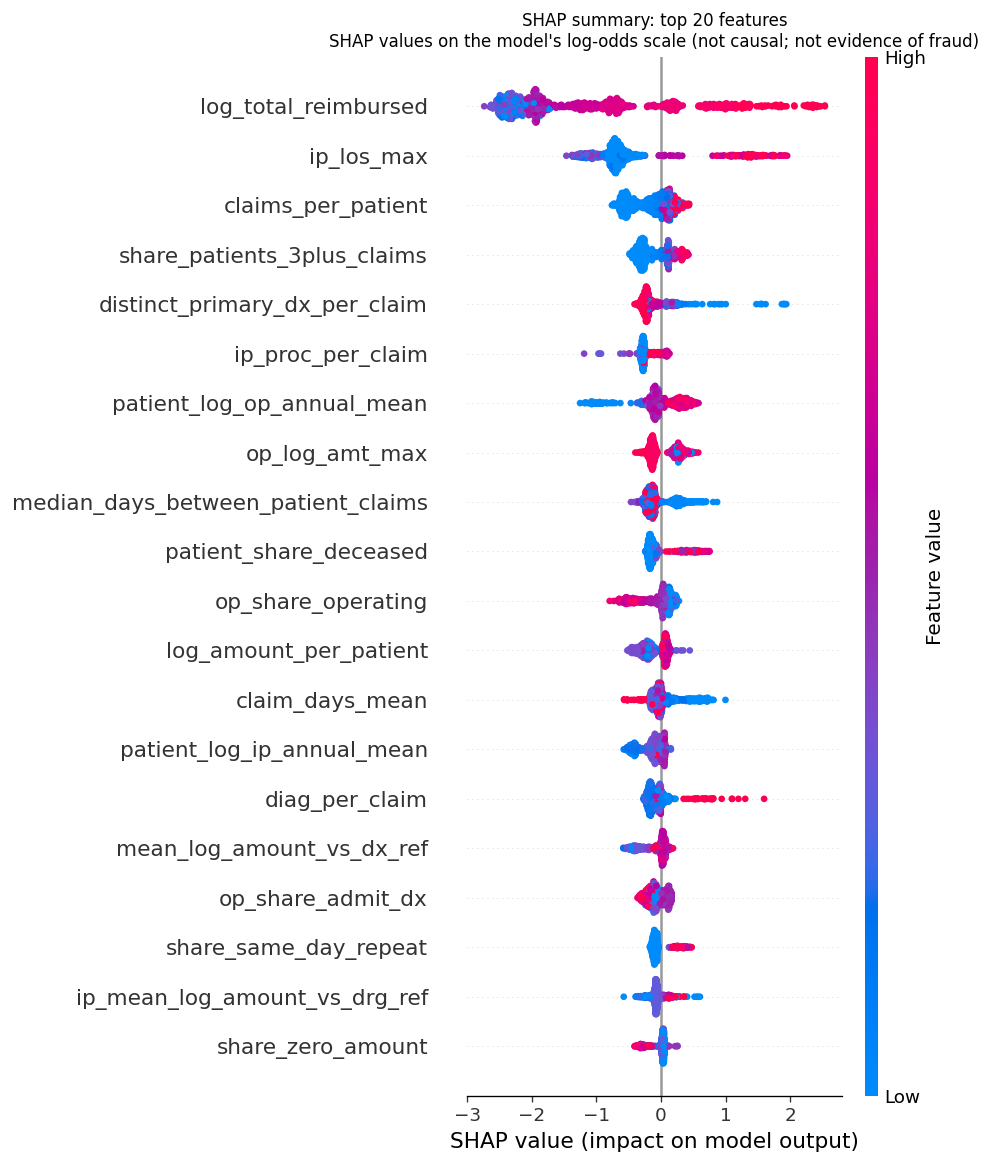
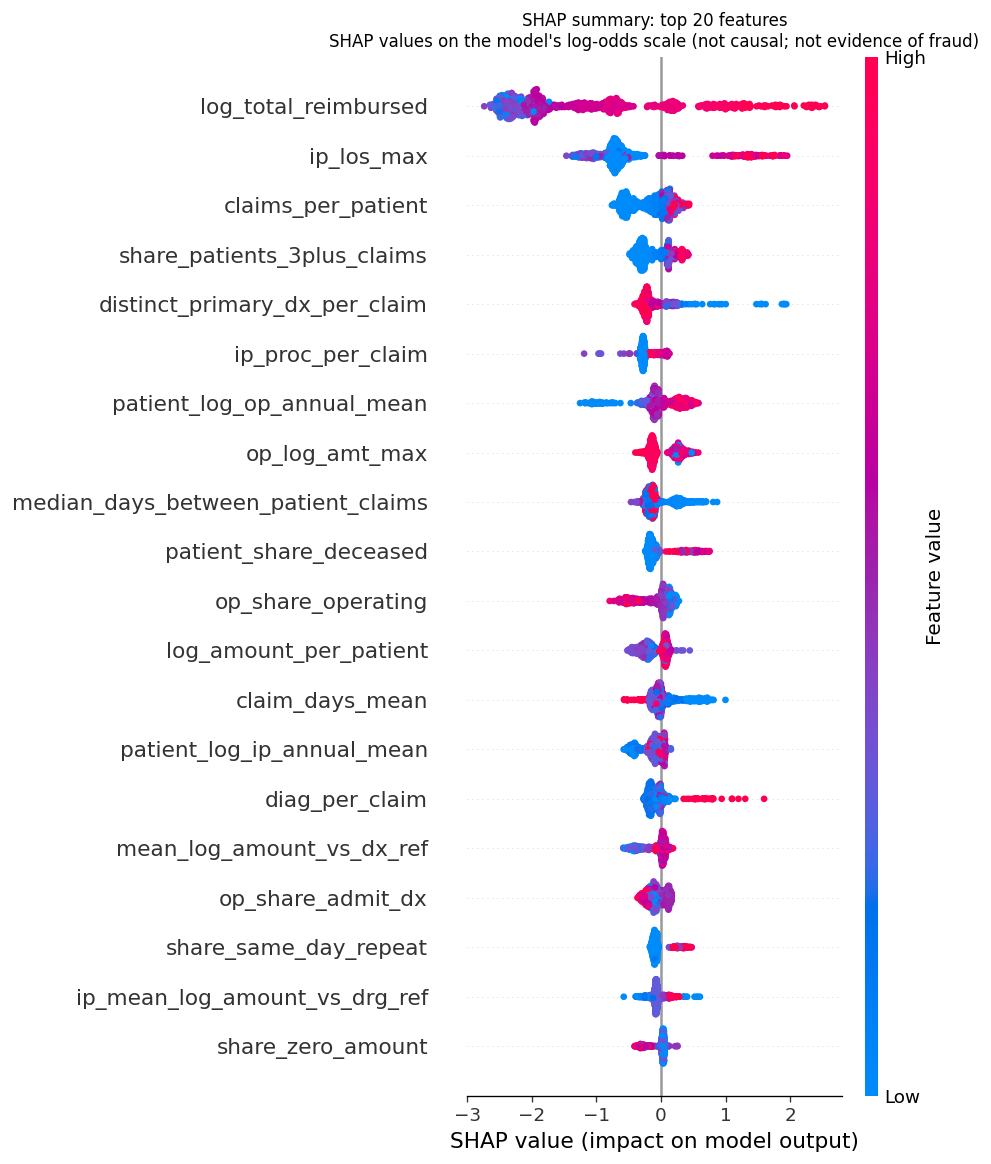
Describe model outputs consistently as uncalibrated risk scores
- predict.score_providers() output column renamed risk_probability -> risk_score
  (callers in evaluate.py, explain_shap.py and tests updated)
- Phase 2 report states that outputs are uncalibrated, class-weighted risk
  scores, not probabilities of fraud; re-rendered from SAVED results via
  `python -m training.report` (test set not re-evaluated; numbers unchanged)
- SHAP consistency check renamed max_abs_score_error; README diagram wording
- All 21 tests pass

diff --git a/ml_service/training/report.py b/ml_service/training/report.py
@@ -29,6 +29,9 @@ def render(meta: dict, cv: dict, ab: dict, out: dict) -> str:
       "See `reports/dataset_exploration_kaggle.md`.")
     w("> - **Labels:** `PotentialFraud` is a **provider-level** label of **undocumented provenance**. These results measure how well "
       "models reproduce *these labels*. They are **not** verified fraud detection, and **not** claim-level fraud accuracy.")
+    w("> - **Model outputs are uncalibrated risk scores**, not probabilities of fraud. The classifiers were trained with class "
+      "weighting, so a score of 0.9 does not mean a 90% chance of anything. Scores rank providers. Thresholds were chosen "
+      "on development out-of-fold predictions (section 3a).")
     w("> - **Task:** the supervised models predict **provider-level risk at the end of the observation period**. They are not "
       "real-time claim-level fraud detectors.")
     w("> - **Isolation Forest** flags statistically **unusual claims**. An anomaly is not a fraud finding.\n")
@@ -238,3 +241,15 @@ def render(meta: dict, cv: dict, ab: dict, out: dict) -> str:
     w("- These models use dataset-specific fields (ICD-9 codes, physicians, deductibles) that the application database does not have, "
       "so they cannot directly score the application's claims. Integration needs a separate design.\n")
     return "\n".join(L)
+
+
+if __name__ == "__main__":
+    # Re-render reports/model_comparison.md from SAVED results only (does not re-evaluate the test set):
+    #   .venv/Scripts/python.exe -m training.report
+    from fraud_ml import artifacts
+    from fraud_ml.config import REPORTS_DIR
+    rid = artifacts.latest_run_id()
+    md = render(artifacts.load_json(rid, "metadata"), artifacts.load_json(rid, "cv_results"),
+                artifacts.load_json(rid, "ablation_results"), artifacts.load_json(rid, "test_results"))
+    (REPORTS_DIR / "model_comparison.md").write_text(md, encoding="utf-8")
+    print(f"Re-rendered reports/model_comparison.md from saved results of {rid}")

diff --git a/ml_service/fraud_ml/predict.py b/ml_service/fraud_ml/predict.py
@@ -1,8 +1,9 @@
 """
 Inference only: loads saved artifacts, never trains.
 
-  score_providers(): provider-level risk of matching the dataset's PotentialFraud label, at the
-                     end of the observation period. Not a verified fraud finding and not real-time.
+  score_providers(): provider-level `risk_score` for matching the dataset's PotentialFraud label, at the
+                     end of the observation period. An UNCALIBRATED ranking score (the models use class
+                     weighting), not a probability of fraud. Not a verified fraud finding and not real-time.
   score_claims():    claim-level anomaly scores (unusualness, not fraud).
 """
 from __future__ import annotations
@@ -33,7 +34,7 @@ class Predictor:
         b = self.provider_model(model)
         X = provider_matrix(static, claims, self.reference, providers)[b["feature_names"]]
         p = b["model"].predict_proba(X)[:, 1]
-        return pd.DataFrame({"Provider": list(providers), "risk_probability": p, "flagged": (p >= b["threshold"]).astype(int),
+        return pd.DataFrame({"Provider": list(providers), "risk_score": p, "flagged": (p >= b["threshold"]).astype(int),
                              "threshold": b["threshold"], "model": model or self.selected, "run_id": self.run_id})
 
     def anomaly_bundle(self, variant: str = "isolation_forest") -> dict:

diff --git a/ml_service/training/explain_shap.py b/ml_service/training/explain_shap.py
@@ -56,11 +56,11 @@ def main() -> None:
     prob = ex.model.predict_proba(ex.X)[:, 1]
     recon = exp_all.base_values + exp_all.values.sum(axis=1)
     native = ex.model.get_booster().predict(xgb.DMatrix(ex.X), pred_contribs=True)
-    saved_scores = ex.predictor.score_providers(prep.static, prep.claims, all_ids)["risk_probability"].to_numpy()
+    saved_scores = ex.predictor.score_providers(prep.static, prep.claims, all_ids)["risk_score"].to_numpy()
     checks = {
         "n_providers": len(all_ids),
         "max_abs_additivity_error_log_odds": float(np.abs(recon - margin).max()),
-        "max_abs_probability_error": float(np.abs(1 / (1 + np.exp(-recon)) - prob).max()),
+        "max_abs_score_error": float(np.abs(1 / (1 + np.exp(-recon)) - prob).max()),
         "max_abs_diff_vs_xgboost_native_contribs": float(np.abs(native[:, :-1] - exp_all.values).max()),
         "max_abs_diff_vs_phase2_inference_scores": float(np.abs(prob - saved_scores).max()),
         "feature_order_matches_model": list(ex.model.get_booster().feature_names) == ex.features,

diff --git a/ml_service/training/shap_report.py b/ml_service/training/shap_report.py
@@ -35,7 +35,7 @@ def render(r: dict) -> str:
     w(f"| Providers checked | {c['n_providers']:,} |")
     w(f"| Feature order matches the model's input features | {c['feature_order_matches_model']} |")
     w(f"| max \\|base + Σ SHAP − model log-odds\\| | {c['max_abs_additivity_error_log_odds']:.1e} |")
-    w(f"| max \\|sigmoid(base + Σ SHAP) − predict_proba\\| | {c['max_abs_probability_error']:.1e} |")
+    w(f"| max \\|sigmoid(base + Σ SHAP) − model risk score\\| | {c['max_abs_score_error']:.1e} |")
     w(f"| max \\|SHAP − XGBoost's built-in exact contributions\\| | {c['max_abs_diff_vs_xgboost_native_contribs']:.1e} |")
     w(f"| max \\|score − Phase 2 inference score (`fraud_ml/predict.py`)\\| | {c['max_abs_diff_vs_phase2_inference_scores']:.1e} |")
     w(f"| Identical values from two independent explainer instances | {c['reproducible_across_explainer_instances']} |")

diff --git a/ml_service/scripts/score.py b/ml_service/scripts/score.py
@@ -4,8 +4,9 @@ Score providers and/or claims with SAVED artifacts (inference only, no retrainin
     .venv/Scripts/python.exe scripts/score.py --providers test                 # held-out test providers
     .venv/Scripts/python.exe scripts/score.py --claims --percentile 99         # claim anomaly flags, top 1% per claim type
 
-Writes CSVs to artifacts/<run_id>/. Provider scores are the risk of matching the dataset's provider-level
-PotentialFraud label (undocumented provenance). They are not verified fraud findings.
+Writes CSVs to artifacts/<run_id>/. Provider `risk_score` values are uncalibrated ranking scores for matching
+the dataset's provider-level PotentialFraud label (undocumented provenance). They are not probabilities of
+fraud and not verified fraud findings.
 Claim flags mean "unusual for its claim type", not fraud.
 """
 import argparse

diff --git a/ml_service/tests/test_explain.py b/ml_service/tests/test_explain.py
@@ -57,7 +57,7 @@ class ExplainTests(unittest.TestCase):
 
     def test_scores_match_phase2_inference(self):
         s = self.ex.predictor.score_providers(self.prep.static, self.prep.claims, self.sample[:50])
-        for pid, score in zip(s["Provider"], s["risk_probability"]):
+        for pid, score in zip(s["Provider"], s["risk_score"]):
             self.assertAlmostEqual(self.ex.explain(pid)["risk_score"], float(score), places=6)
 
     # ── global ──────────────────────────────────────────────────

diff --git a/ml_service/training/evaluate.py b/ml_service/training/evaluate.py
@@ -121,7 +121,7 @@ def main() -> None:
     results = {}
     for name in MODEL_NAMES + ["volume_baseline"]:
         s = pred.score_providers(prep.static, prep.claims, test, model=name)
-        test_df[f"p_{name}"] = s["risk_probability"].to_numpy()
+        test_df[f"p_{name}"] = s["risk_score"].to_numpy()
         thr = float(s["threshold"].iloc[0])
         results[name] = classification_metrics(y_test, test_df[f"p_{name}"], thr) | bootstrap_ci(y_test, test_df[f"p_{name}"].to_numpy())
         results[name]["by_size_test"] = by_size(test_df, f"p_{name}", thr)

diff --git a/ml_service/reports/model_comparison.md b/ml_service/reports/model_comparison.md
@@ -1,10 +1,11 @@
 # Phase 2: provider-level fraud-risk models and claim-level anomaly detection
 
-_Generated 2026-11-11 10:26 UTC from run `run-20261111-102008` (code commit `acd0a23`) by `training/evaluate.py`._
+_Generated 2026-11-11 10:45 UTC from run `run-20261111-102008` (code commit `acd0a23`) by `training/evaluate.py`._
 
 > **Read this first.**
 > - **Dataset:** public Kaggle "Healthcare Provider Fraud Detection Analysis" (CC0 as declared by the uploader). See `reports/dataset_exploration_kaggle.md`.
 > - **Labels:** `PotentialFraud` is a **provider-level** label of **undocumented provenance**. These results measure how well models reproduce *these labels*. They are **not** verified fraud detection, and **not** claim-level fraud accuracy.
+> - **Model outputs are uncalibrated risk scores**, not probabilities of fraud. The classifiers were trained with class weighting, so a score of 0.9 does not mean a 90% chance of anything. Scores rank providers. Thresholds were chosen on development out-of-fold predictions (section 3a).
 > - **Task:** the supervised models predict **provider-level risk at the end of the observation period**. They are not real-time claim-level fraud detectors.
 > - **Isolation Forest** flags statistically **unusual claims**. An anomaly is not a fraud finding.
 

diff --git a/ml_service/reports/shap_explanations.md b/ml_service/reports/shap_explanations.md
@@ -1,6 +1,6 @@
 # Phase 3: SHAP explanations for the provider-level XGBoost model
 
-_Generated 2026-11-11T10:39:09+00:00 by `training/explain_shap.py` for run `run-20261111-102008` (SHAP 0.46.0, XGBoost 2.1.3). The model was not retrained (SHA-256 `24939f046aa1b073…`, unchanged: True)._
+_Generated 2026-11-11T10:46:07+00:00 by `training/explain_shap.py` for run `run-20261111-102008` (SHAP 0.46.0, XGBoost 2.1.3). The model was not retrained (SHA-256 `24939f046aa1b073…`, unchanged: True)._
 
 > **How to read these explanations**
 > - They explain the **provider-level risk score** of the Phase 2 XGBoost model only. They do not apply to individual claims or to the Isolation Forest.
@@ -22,7 +22,7 @@ _Generated 2026-11-11T10:39:09+00:00 by `training/explain_shap.py` for run `run-
 | Providers checked | 5,410 |
 | Feature order matches the model's input features | True |
 | max \|base + Σ SHAP − model log-odds\| | 6.7e-06 |
-| max \|sigmoid(base + Σ SHAP) − predict_proba\| | 6.6e-07 |
+| max \|sigmoid(base + Σ SHAP) − model risk score\| | 6.6e-07 |
 | max \|SHAP − XGBoost's built-in exact contributions\| | 0.0e+00 |
 | max \|score − Phase 2 inference score (`fraud_ml/predict.py`)\| | 0.0e+00 |
 | Identical values from two independent explainer instances | True |

diff --git a/ml_service/README.md b/ml_service/README.md
@@ -9,7 +9,7 @@ React ──► Express (only gateway, JWT + roles) ──► MySQL (rules via t
                      │  after the claim commits, non-blocking
                      ▼
               ML service (FastAPI, internal only) ──read-only──► MySQL
-                     │  returns: probability, anomaly score, hybrid score, SHAP
+                     │  returns: risk score (uncalibrated), anomaly score, hybrid score, SHAP
                      ▼
               Express stores the result in the CLAIM_RISK_SCORE tables (database/ml_schema.sql)
 ```
